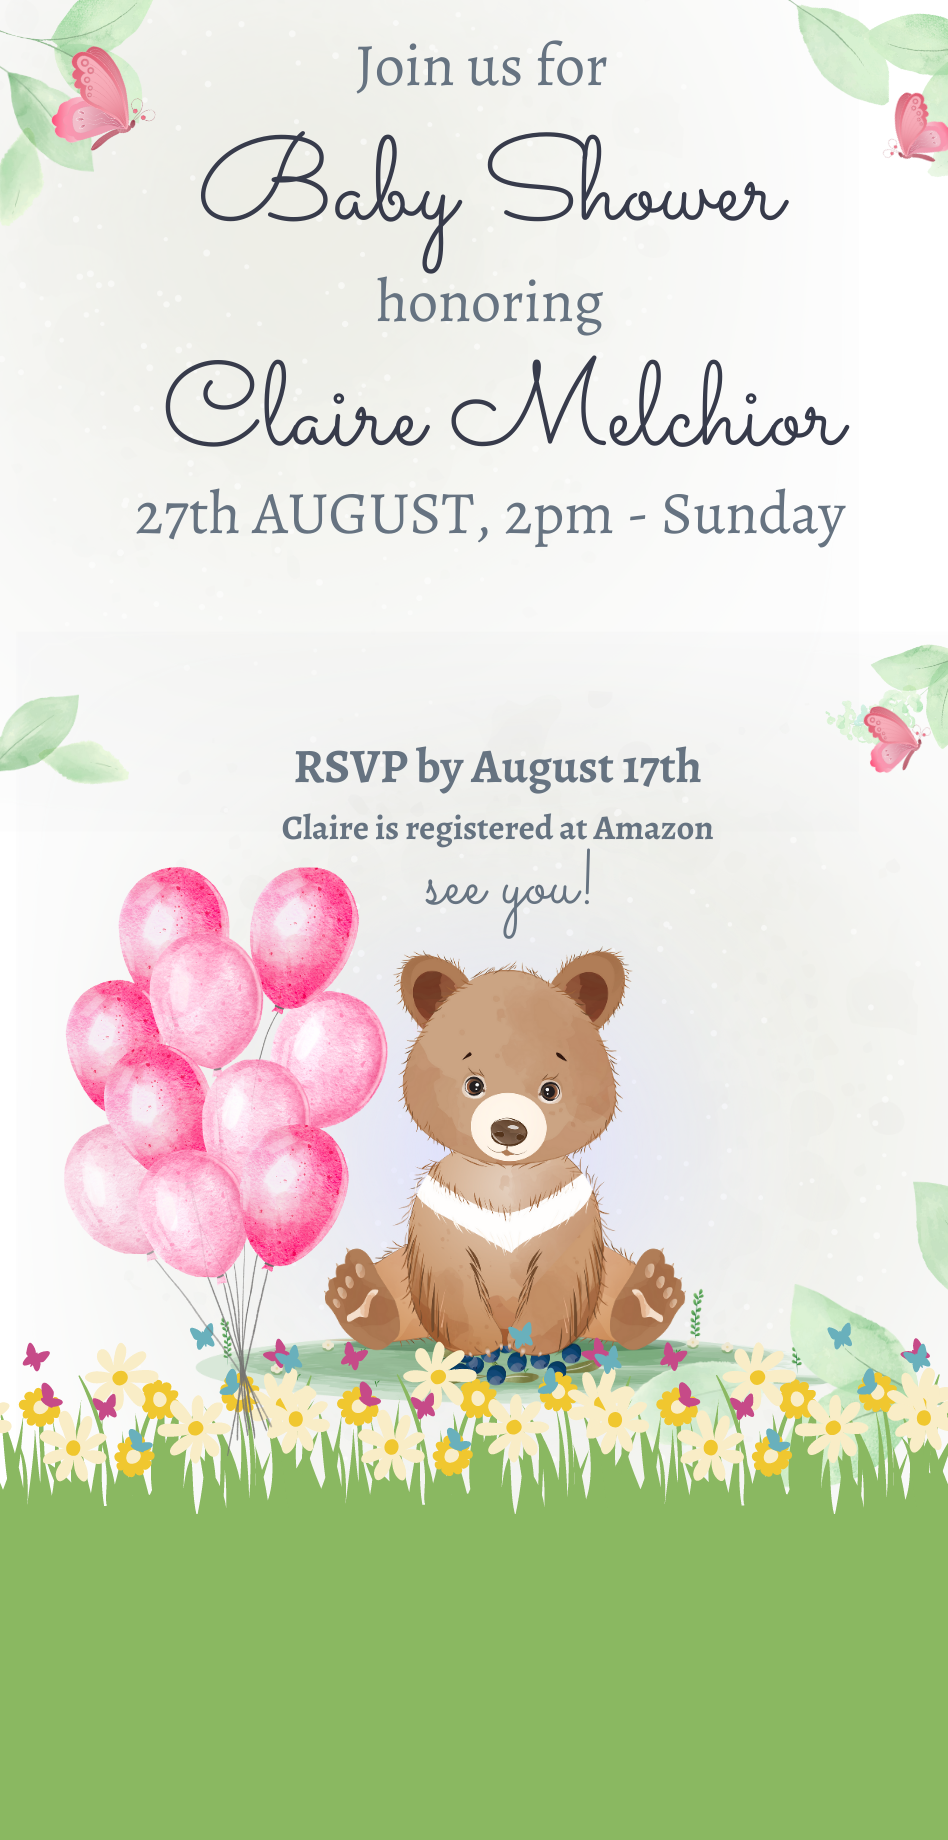
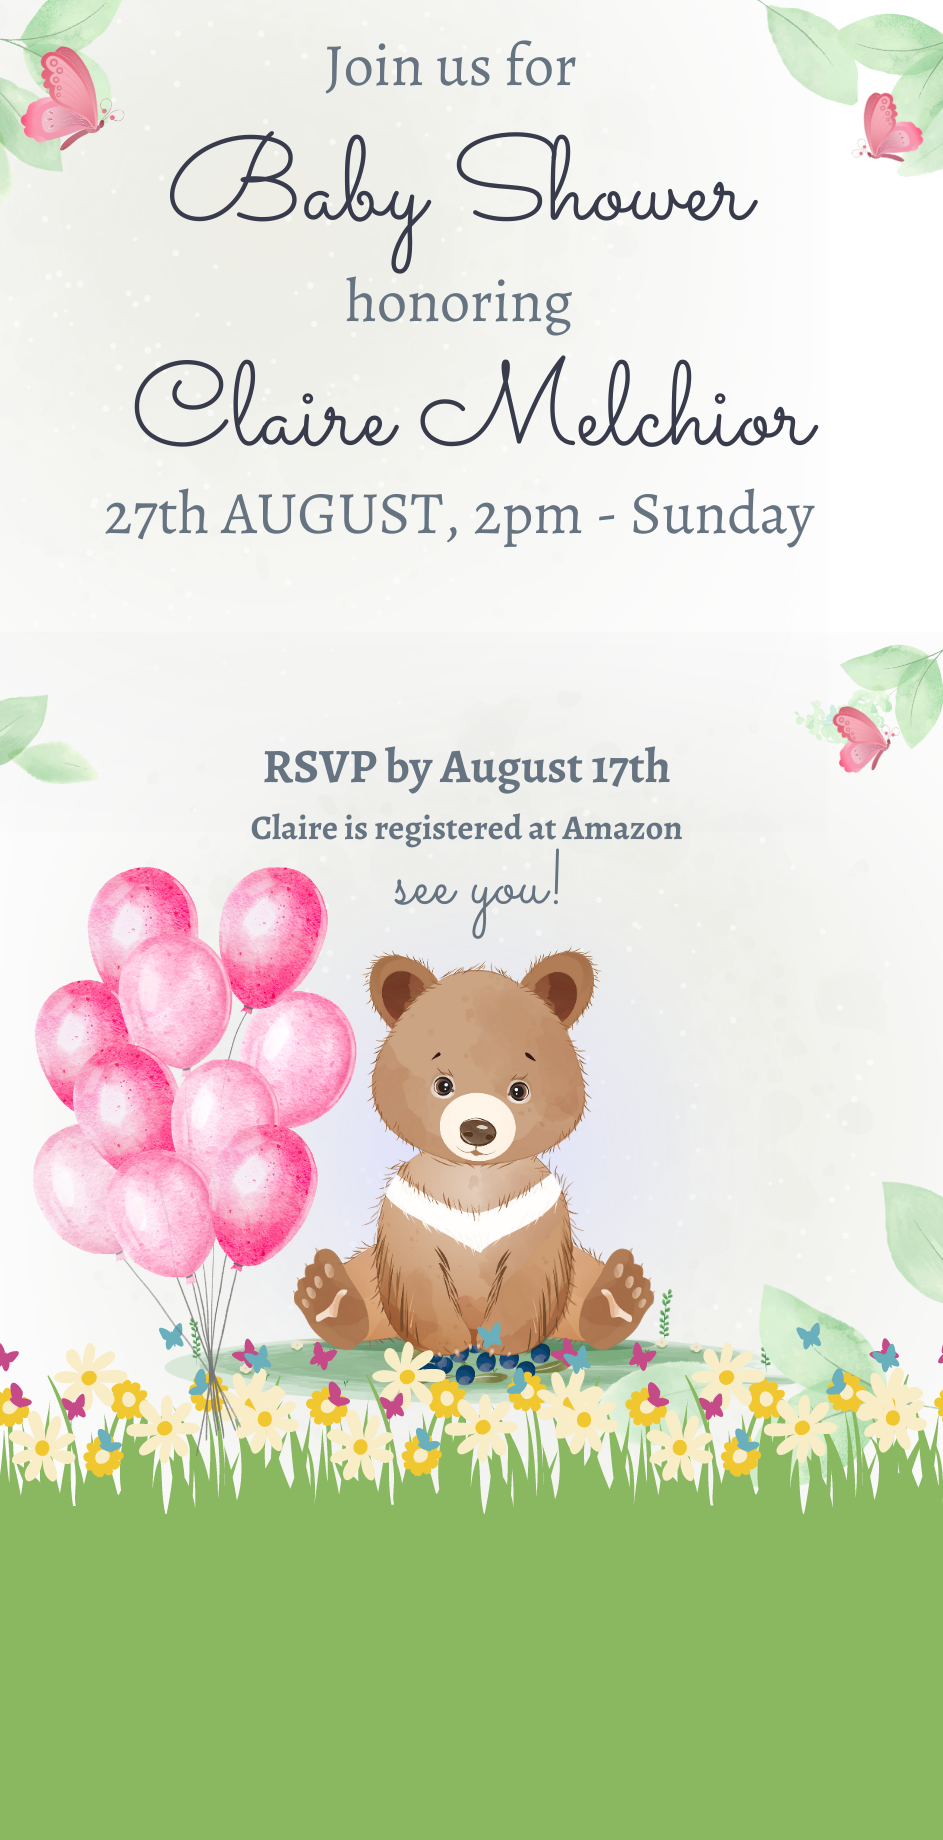
testing new background size - phone

diff --git a/styles.css b/styles.css
@@ -9,7 +9,15 @@
     width: 400px; /* adjust as needed */
     height: auto; /* maintains the aspect ratio */
     margin: 0;
-    padding: 0;
+    padding: 0;}
+
+.addressb a {
+    cursor: pointer;
+    position: absolute; 
+    top: 66vw; 
+    left: 13vw;
+    font-size: 22px;
+    color: #96b57b;
 }
 .button1 {
     background-color: #ececeb;
@@ -59,7 +67,7 @@
     
       .buttons {
         position: absolute; /* Set the buttons container to absolute position */
-        top: 170vw; /* Adjust this value as needed to control the distance from the bottom */
+        top: 167vw; /* Adjust this value as needed to control the distance from the bottom */
         left: 17vw; /* Horizontally center the buttons container */
         display: flex; /* Use flexbox to display buttons side by side */
         justify-content: center;; /* Center the buttons horizontally within the container */
@@ -97,12 +105,14 @@
         display: flex; /* Use flexbox to display buttons side by side */
         justify-content: center; /* Center the buttons horizontally within the container */
         padding-bottom: 45px;
+        cursor: pointer;
     }
 
     
       
 
       .button3 {
+        cursor: pointer;
         background-color: #96b57b;
         color: rgb(0, 0, 0);
         padding: 10px 20px;
@@ -123,28 +133,26 @@
       }
     
       .button4 {
+        cursor: pointer;
         background-color: #96b57b;
         color: rgb(0, 0, 0);
         padding: 10px 20px;
-        /* Adjust these values to change the button size */
         border: none;
-        /* Remove the default button border */
         border-radius: 5px;
-        /* Optional: give the buttons rounded corners */
         cursor: pointer;
-        /* Change the cursor when hovering over the buttons */
         text-align: center;
         text-decoration: none;
         display: inline-block;
         font-size: 16px;
         margin: 4px 2px;
         transition: transform 0.2s ease;
-        /* Optional: add a transition effect when hovering over the buttons */
+      
       }
 
 .address a {
-    position: absolute; /* Set the buttons container to absolute position */
-    top: 25vw; /* Adjust this value as needed to control the distance from the bottom */
+    cursor: pointer;
+    position: absolute; 
+    top: 25vw; 
     left: 12.5vw;
     font-size: 20px;
     color: #96b57b;
@@ -153,7 +161,7 @@
 .button3:hover,
   .button4:hover
    { cursor: pointer;
-    background-color: rgba(215, 215, 215, 0.8); /* Change the background color on hover */
+    background-color: rgba(215, 215, 215, 0.8); 
   }
   }
   

diff --git a/index.html b/index.html
@@ -12,8 +12,7 @@
 
     <div class="webimage">
         <img src="images/webimg.png">
-        <div class="address"><a href="https://goo.gl/maps/xgyBF6Lz2qjJFnmbA">Paradise Beach Park,
-                Tiburon, CA</a>
+   
 
         </div>
         <div class="buttonsweb">
@@ -26,13 +25,15 @@
 
     <div class="images-container">
         <div class="masterpiece">
-            <img src="images/masterpiece.png">
+            <img src="images/masterpiece3.png">
             <div class="buttons">
-                <a href="https://docs.google.com/forms/d/e/1FAIpQLScX5iXLXNzmoxxKLg-NrCWmgVUSsxrdwjCd4JPqGWNZcGJwEw/viewform?usp=sf_link"><button class="button1">RSVP</button></a>
+                <a href="https://docs.google.com/forms/d/e/1FAIpQLScX5iXLXNzmoxxKLg-NrCWmgVUSsxrdwjCd4JPqGWNZcGJwEw/viewform?usp=sf_link"><button class="button1">RSVP</button>
                 <a href="https://www.amazon.com/baby-reg/claire-melchior-november-2023-millvalley/1L5UKCDR95E8P?ref_=cm_sw_r_apin_dp_4S17RQQ4M5JBXW5M46PZ"><button class="button2">Amazon Registry</button></a>
             </div>
         </div>
     </div>
+    <div class="addressb"><a href="https://goo.gl/maps/xgyBF6Lz2qjJFnmbA">Paradise Beach Park,
+        Tiburon, CA</a>
 
 </body>
 
